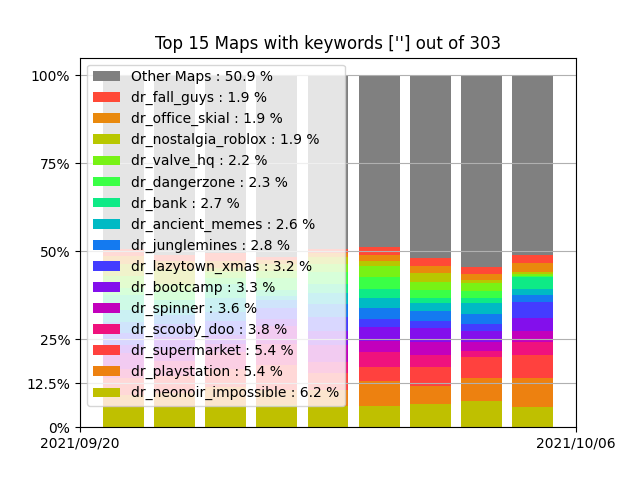
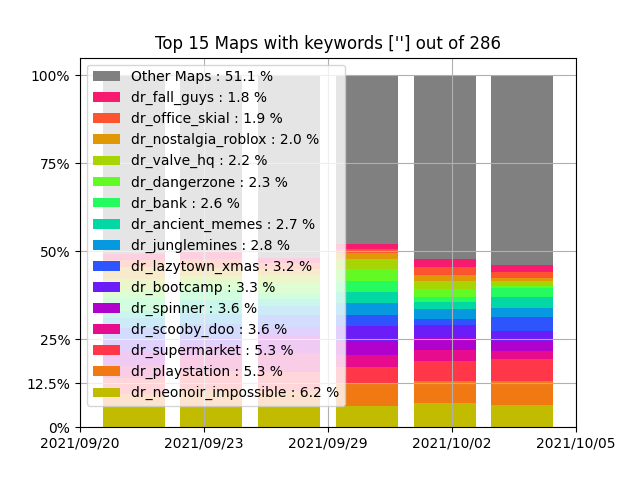
added vsh to reader ignore list.

Changed region(s): [[0.125, 0.1562, 0.875, 0.9375], [0.7188, 0.0625, 0.7812, 0.125], [0.9375, 0.9062, 0.9688, 0.9375]]

diff --git a/read.py b/read.py
@@ -15,14 +15,14 @@ from write import Format
 filename = "output.csv" #file to read
 filenamepng = "output.png" #name of the figure
 MapsToShow = 15 #How many maps to show in order of popularity
-AverageDays = 2 #how many days each bar represents
+AverageDays = 3 #how many days each bar represents
 StartDate = "2001-10-02" #date range to use
 EndDate = "2022-10-02"  #date range to use
-XaxisDates = 1 #How many dates to show in the figure. Maximum is the amount of bars. Minimum is 2
+XaxisDates = 5 #How many dates to show in the figure. Maximum is the amount of bars. Minimum is 2
 OnlyMapsContaining = [""] #EX.["Playstation","Bazinga","Lazy"]
 ColorForOtherMaps = (0.5,0.5,0.5)
 ColorIntensity = 25
-wordfilter = ["fix","final","redux","finished","remake","optimized","finalplus","mini"] #Will not consider maps with these suffixes to be unique
+wordfilter = ["fix","final","redux","finished","remake","optimized","finalplus","mini","vsh"] #Will not consider maps with these suffixes to be unique
 versionfilter = ["v","b","a","rc","x","f"]
 
 
